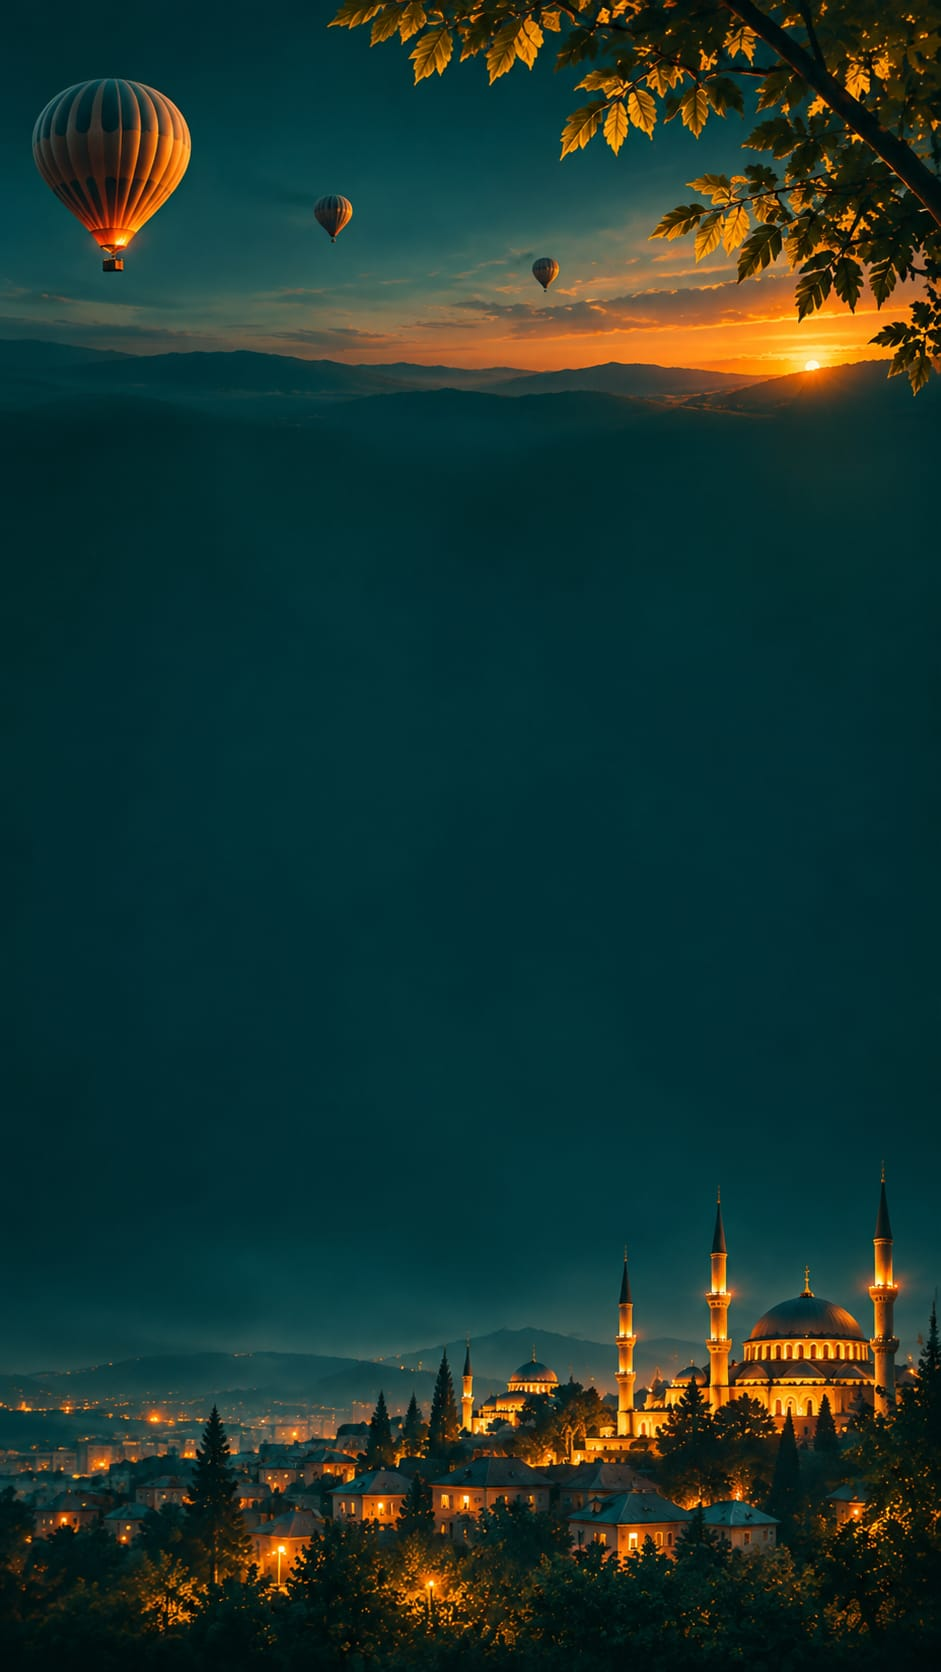
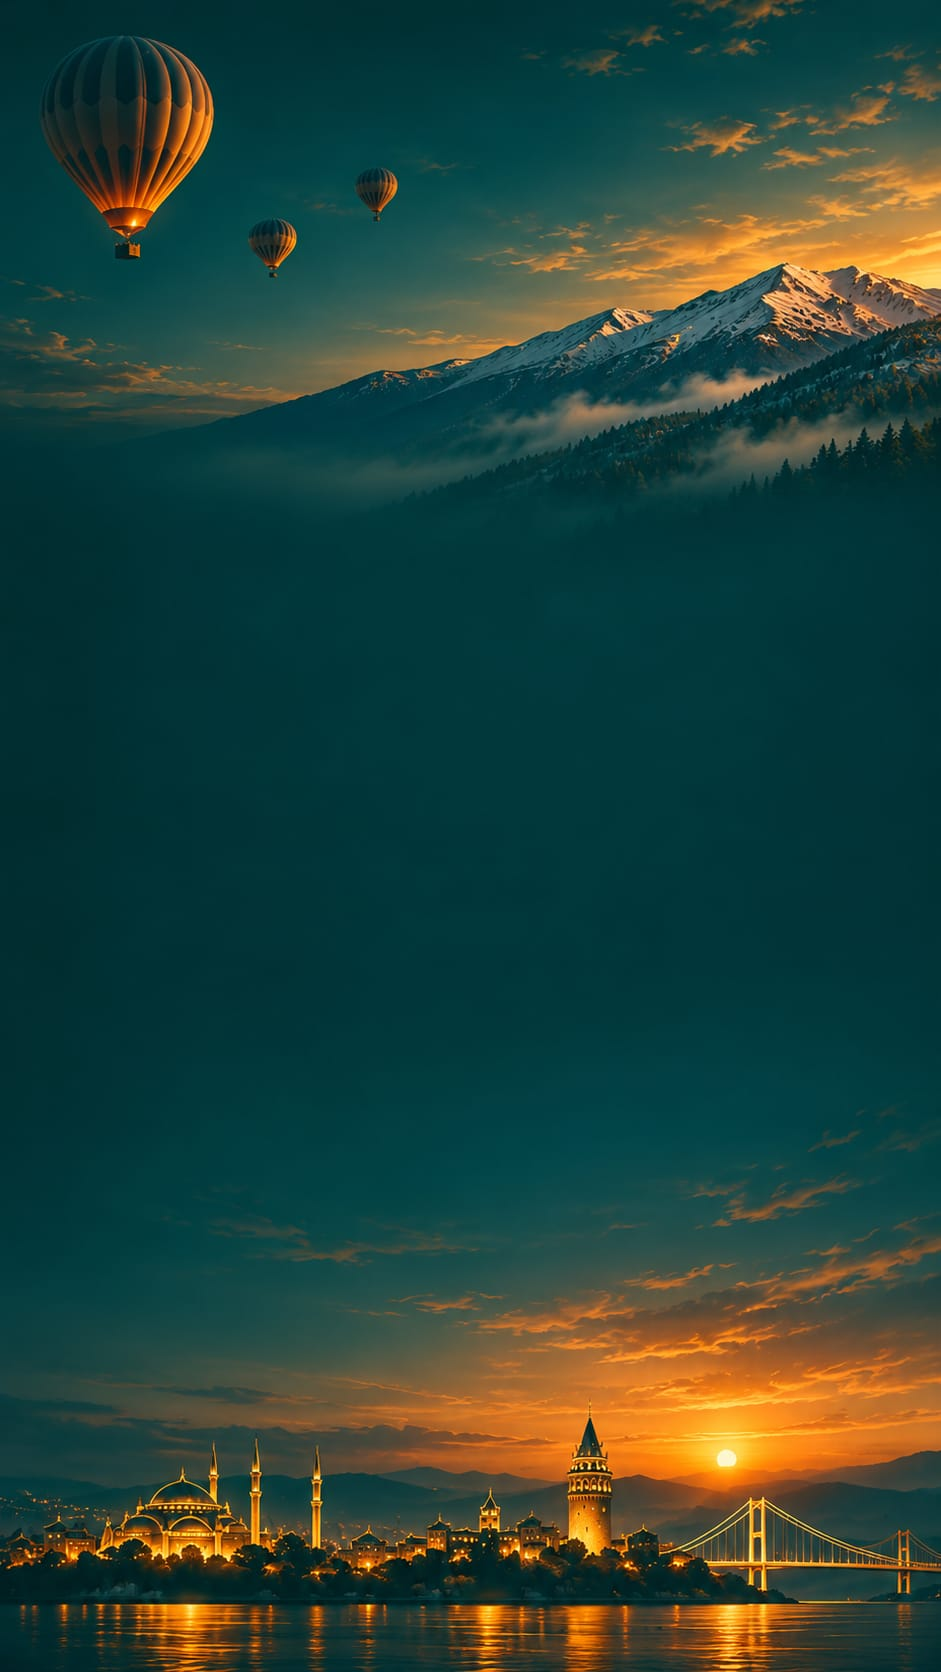
Dil seçimi: yeni arka plan, satırlar ortadaki boşluğa sığacak şekilde

diff --git a/apps/mobile/src/app/language.tsx b/apps/mobile/src/app/language.tsx
@@ -111,17 +111,18 @@ export default function LanguageScreen() {
 }
 
 const styles = StyleSheet.create({
-  head: { gap: spacing.xs, alignItems: 'center' },
+  // Arka plan resminin ortası boş (üstte dağ ve balonlar, altta İstanbul silüeti): içerik o boşluğa sığsın diye sıkı.
+  head: { gap: 2, alignItems: 'center', paddingTop: 56 },
   back: { position: 'absolute', start: -spacing.sm, top: -2, width: 44, height: 44, justifyContent: 'center', zIndex: 1 },
-  title: { fontFamily: fonts.heading, fontSize: 26, lineHeight: 33, color: '#FFFFFF', textAlign: 'center' },
-  subtitle: { fontSize: 14, lineHeight: 20, color: '#C4D0D3', textAlign: 'center' },
-  list: { gap: 12 },
-  row: { height: 76, borderRadius: radius.lg, overflow: 'hidden', borderWidth: 1.5, backgroundColor: ROW_BG, flexDirection: 'row', alignItems: 'center', paddingHorizontal: spacing.md, gap: spacing.md },
+  title: { fontFamily: fonts.heading, fontSize: 24, lineHeight: 30, color: '#FFFFFF', textAlign: 'center' },
+  subtitle: { fontSize: 13, lineHeight: 18, color: '#C4D0D3', textAlign: 'center' },
+  list: { gap: 8 },
+  row: { height: 62, borderRadius: radius.lg, overflow: 'hidden', borderWidth: 1.5, backgroundColor: ROW_BG, flexDirection: 'row', alignItems: 'center', paddingHorizontal: spacing.md, gap: spacing.md },
   art: { position: 'absolute', top: 0, bottom: 0, end: 0, width: '62%' },
-  flag: { width: 42, height: 42, borderRadius: 21, overflow: 'hidden', alignItems: 'center', justifyContent: 'center', backgroundColor: 'rgba(255, 255, 255, 0.08)', borderWidth: 1, borderColor: 'rgba(255, 255, 255, 0.18)' },
-  flagText: { fontSize: 28, lineHeight: 34 },
+  flag: { width: 38, height: 38, borderRadius: 19, overflow: 'hidden', alignItems: 'center', justifyContent: 'center', backgroundColor: 'rgba(255, 255, 255, 0.08)', borderWidth: 1, borderColor: 'rgba(255, 255, 255, 0.18)' },
+  flagText: { fontSize: 25, lineHeight: 30 },
   grow: { flex: 1, gap: 2 },
-  suggested: { fontFamily: fonts.bodySemi, fontSize: 11.5, color: GOLD, letterSpacing: 0.4 },
-  name: { fontFamily: fonts.heading, fontSize: 20, lineHeight: 26, color: '#FFFFFF' },
-  arrow: { width: 36, height: 36, borderRadius: 18, borderWidth: 1.5, borderColor: GOLD, alignItems: 'center', justifyContent: 'center', backgroundColor: 'rgba(8, 26, 30, 0.55)' },
+  suggested: { fontFamily: fonts.bodySemi, fontSize: 10.5, color: GOLD, letterSpacing: 0.4 },
+  name: { fontFamily: fonts.heading, fontSize: 18, lineHeight: 23, color: '#FFFFFF' },
+  arrow: { width: 32, height: 32, borderRadius: 16, borderWidth: 1.5, borderColor: GOLD, alignItems: 'center', justifyContent: 'center', backgroundColor: 'rgba(8, 26, 30, 0.55)' },
 });

diff --git a/DURUM.md b/DURUM.md
@@ -927,7 +927,7 @@ Dikkat: arka plandaki işlemi `pkill -f "...emulators..."` ile durdurma; komut s
   uygulanmadı; avukat: verinin siyasi kullanımı; aydınlatma metnine "isimsiz, toplu istatistik" satırı (PROJE.md 6.1).
 - **Blaze'e geçince Claude'un yapacakları:** **ilk iş otomatik harcama sigortası** (Eren istedi, 6 Kasım: bütçe Pub/Sub bildirimi > işlev > tutar aşılınca projenin faturalandırmasını kapatır; öneri aylık 20 dolar, ayrıca 10 dolar e-posta uyarısı; `docs/eren-yapilacaklar.md`); sonra sunucu işlevleri ve Storage kurallarını yüklemek; ~~listelerde küçük önizleme görseli~~ (7 Kasım); Storage bölgesi **europe-west1** (Karar Eren, 6 Kasım: Firestore da Avrupa'da, eur3; Firebase'in ücretsiz Storage kotası yalnızca ABD bölgelerinde, bu yüzden ilk bayttan ücretli, başta ayda en çok ~10-12 $, maliyeti izlemek); **fotoğraf/video gösterimi** (Eren ile konuşuldu, 6 Kasım): asıl gider görüntüleme; fatura ayda ~50 doları geçince yalnızca medya Cloudflare R2'ye (indirme ücretsiz) ya da Bunny CDN'e taşınacak, Firebase giriş/veri/bildirim için kalır; tamamen kendi sunucusu önerilmedi (bakım, güvenlik, KVKK); video dokununca oynar; "Çevir" düğmesinin işlevini yükleyip gerçek çeviriyle denemek; ~~Çarşı'da yeni ilana en az bir fotoğraf zorunluluğu~~ (7 Kasım; uygulama + kurallar; Karar
   Eren 3 Kasım); fotoğraflı akışları gerçek projede deneme.
-- **Görseller (8 Kasım):** Eren yapay zekâyla (ChatGPT) görsel hazırlayacak; liste ve tarifler `docs/gorsel-listesi.md`. Gelince masaüstü `CityJoy-gorseller` klasöründen alınıp yerleştirilecek (ortaklar `apps/mobile/assets`, il kapakları panelden). **1. grup geldi ve kondu (8 Kasım):** belediye, kurumlar, mahalle, vitrin, siluet `apps/mobile/assets/city/` (960 px jpg; eski kesitler townhall/skyline silindi); Önemli Kurumlar kartı da artık resimli. Eren ayrıca gece Bursa manzarası yaptı: 16:9 kesilip masaüstüne `bursa-kapak.jpg` kondu, Eren panelden Seyahat > Bursa kapağına yükleyecek. **2. ve 3. grup da kondu (8 Kasım):** ana sayfanın dört kartı `assets/home/` (çizim yerine resim), giriş resimleri `assets/auth/` (karşılama üç resim sırayla; dil seçimi, giriş/kayıt, konum izni ve profil tamamlama arkada tam ekran resim + alttan koyulaşma). Tek yer: `src/lib/app-art.ts`. Panel > Uygulama görselleri (Blaze) gelince bunlar varsayılan kalır. Telefonda denenmedi. **Giriş ekranlarında içerik ekranın ortasında (Karar Eren, 8 Kasım).** **Dil seçimi yeni tasarımda (Eren, 8 Kasım; `docs/tasarim-ornekleri/dil-secimi.png`):** satırda bayrak (Karar Eren: bayrak kalsın, emoji; telefonda bayrak, Windows tarayıcısında harf görünür), dilin adı, sağda dile ait resim (`assets/lang/`), altın ok; tek dokunuş seçip devam eder, Devam et düğmesi kalktı. Arka plan `dil-arka.png` (balonlar üstte, şehir altta) kondu; bu ekranda alttan koyulaşma kapalı.
+- **Görseller (8 Kasım):** Eren yapay zekâyla (ChatGPT) görsel hazırlayacak; liste ve tarifler `docs/gorsel-listesi.md`. Gelince masaüstü `CityJoy-gorseller` klasöründen alınıp yerleştirilecek (ortaklar `apps/mobile/assets`, il kapakları panelden). **1. grup geldi ve kondu (8 Kasım):** belediye, kurumlar, mahalle, vitrin, siluet `apps/mobile/assets/city/` (960 px jpg; eski kesitler townhall/skyline silindi); Önemli Kurumlar kartı da artık resimli. Eren ayrıca gece Bursa manzarası yaptı: 16:9 kesilip masaüstüne `bursa-kapak.jpg` kondu, Eren panelden Seyahat > Bursa kapağına yükleyecek. **2. ve 3. grup da kondu (8 Kasım):** ana sayfanın dört kartı `assets/home/` (çizim yerine resim), giriş resimleri `assets/auth/` (karşılama üç resim sırayla; dil seçimi, giriş/kayıt, konum izni ve profil tamamlama arkada tam ekran resim + alttan koyulaşma). Tek yer: `src/lib/app-art.ts`. Panel > Uygulama görselleri (Blaze) gelince bunlar varsayılan kalır. Telefonda denenmedi. **Giriş ekranlarında içerik ekranın ortasında (Karar Eren, 8 Kasım).** **Dil seçimi yeni tasarımda (Eren, 8 Kasım; `docs/tasarim-ornekleri/dil-secimi.png`):** satırda bayrak (Karar Eren: bayrak kalsın, emoji; telefonda bayrak, Windows tarayıcısında harf görünür), dilin adı, sağda dile ait resim (`assets/lang/`), altın ok; tek dokunuş seçip devam eder, Devam et düğmesi kalktı. Arka plan `dil-arka.png` (Eren yeniledi: üstte balonlar ve karlı dağ, altta İstanbul silüeti, ortası boş) kondu; satırlar o boşluğa sığacak kadar sıkı (62 px); bu ekranda alttan koyulaşma kapalı.
 - **Eren'in tasarım örnekleri (8 Kasım, bilgi için; zamanı gelince uygulanacak):** `docs/tasarim-ornekleri/` (Benim Şehrim ana, Önemli Kurumlar koyu ve açık). Önemli Kurumlar için anlaşılanlar: tepede ilin kapak fotoğrafı sayfaya eriyerek (tüm Benim Şehrim alt sayfalarında aynı il fotoğrafı), arama + Tümü/Kamu/Sağlık/Acil filtreleri, iki sütun kart (simge, başlık, açıklama, ok). Açık modda zemin de açık olacak (görseldeki koyu zemin + beyaz kart değil). Alttaki bilgi kutusu konmayacak ("siz" dili de uymuyor). Kaydet düğmesi ve alt menü çubuğu yeni özellik, ayrıca konuşulacak. Müzeler örneği (`muzeler.png`): bugünkü hub düzeninin (Türüne göre, İlçene göre, Sana en yakın, Tümünü listele) zenginleşmiş hâli; tepede il fotoğrafı, tür kutularında sayı, en yakın kartta fotoğraf + Yol tarifi. Karar (Eren, 8 Kasım): her alt sayfaya ayrı tasarım gerekmez, Claude bu örneklerden türetir; Eren yalnızca farklı tipteki ekranları (ayrıntı sayfası, Mahalle Meydanı, Nöbetçi Eczane, Vitrin, Etkinlik) çizebilir. Gelenler (8 Kasım): `ayrinti-muze.png`, `mahalle-meydani.png`, `nobetci-eczane.png`, `etkinlikler.png`; Eren "yeterli mi" dedi, yeterli (Vitrin Claude türetir). Uygularken: Etkinlikler başlığındaki "StiJoy" yanlış, CityJoy olacak; Eczane başlığındaki 3B hap simgesi yerine ince simge; Eczane kaynak notu (TEB) kalır (kaynak belirtmek gerekli). Yeni özellik sayılanlar, ayrıca konuşulacak: yorum/puan, favori/kaydet, paylaş, alt menü çubuğu, Bölgesel/Genel etkinlik ayrımı. Harita gömme maliyet ilkesine göre değerlendirilecek (bölüm 9.1).
 - **Eren'in yapacakları tek listede:** `docs/eren-yapilacaklar.md` (31 Ekim). Eren bir maddeyi bitirdim deyince işaretle.
 - **Mağaza öncesi kontrol listesi (30 Ekim 2026, 20 maddelik liste üzerinden):** Claude'un üç işi yapıldı (konum izni metni,
